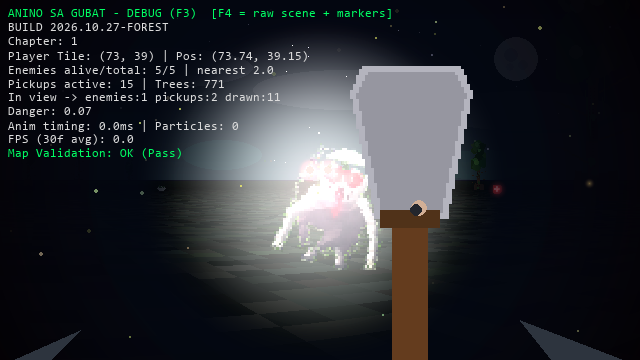
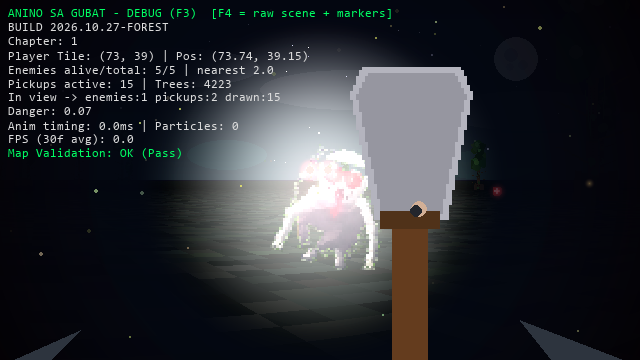
feat(world): overhaul forest density and expand chunk load radius
Significantly increase tree population counts across all biomes in map_system.py and settings.py to create dense, immersive wilderness environments. Expand the CHUNK_LOAD_RADIUS and MAX_RENDER_TREES to support the massive forest density while updating preview screenshots.

diff --git a/map_system.py b/map_system.py
@@ -115,10 +115,20 @@ class ProceduralWorldEngine:
                     if 0 <= ny < self.chunk_size:
                         tiles[ny][x] = WATER
 
-        # Tree generation inside chunk
         tree_types = list(tree_weights.keys())
         weights = list(tree_weights.values())
-        tree_count = rng.randint(12, 24) if biome != 'clearing' else rng.randint(3, 8)
+
+        # Extreme Tree Population Density per chunk based on biome
+        if biome == 'ancient_grove':
+            tree_count = rng.randint(45, 65)
+        elif biome in ('dense_forest', 'pine_forest'):
+            tree_count = rng.randint(35, 55)
+        elif biome == 'dead_forest':
+            tree_count = rng.randint(25, 40)
+        elif biome == 'swamp':
+            tree_count = rng.randint(20, 35)
+        else:
+            tree_count = rng.randint(8, 18)
 
         for _ in range(tree_count):
             local_x = rng.uniform(2.0, float(self.chunk_size - 2))

diff --git a/settings.py b/settings.py
@@ -188,16 +188,16 @@ WALL_HEIGHT_SCALE = INTERNAL_HEIGHT * TILE_SIZE
 # World Seed & Procedural Chunk Generation Settings
 ACTIVE_WORLD_SEED = 1337
 CHUNK_SIZE = 32
-CHUNK_LOAD_RADIUS = 3  # Load chunks within 3x3 radius around player chunk
+CHUNK_LOAD_RADIUS = 5  # Expanded chunk load radius for massive forest density (5x5 chunks around player)
 
 # Outdoor Forest Settings (Phases 1-4)
 MAP_WIDTH = 384
 MAP_HEIGHT = 128
 MAP_SIZE = 128
 WORLD_SEED = 1337          # master world seed (deterministic terrain)
-TREE_COUNT_CH1 = 2600
-TREE_COUNT_CH2 = 3600
-MAX_RENDER_TREES = 280
+TREE_COUNT_CH1 = 6500      # massively increased tree population for dense wilderness
+TREE_COUNT_CH2 = 9000      # massively increased tree population for chapter 2
+MAX_RENDER_TREES = 750     # increased render limit for Intel UHD optimization
 GROUND_TEX_SIZE = 1024
 # Dense, Ancient, Wet & Alive Forest Overhaul Tunables
 FOREST_VINE_DENSITY = 0.8
